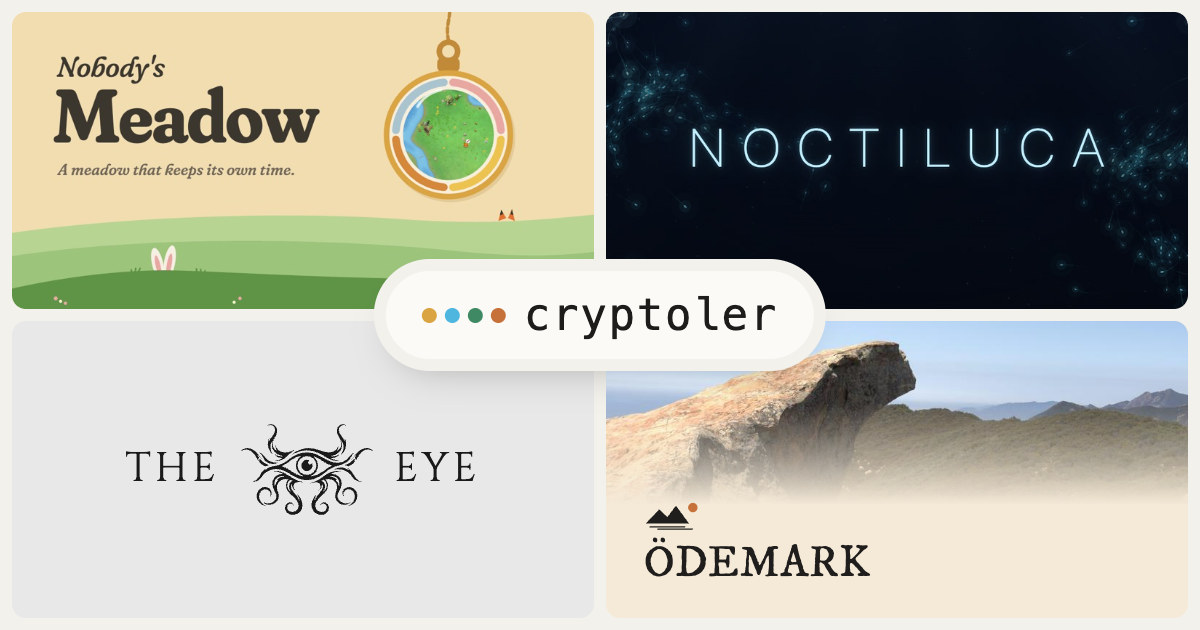
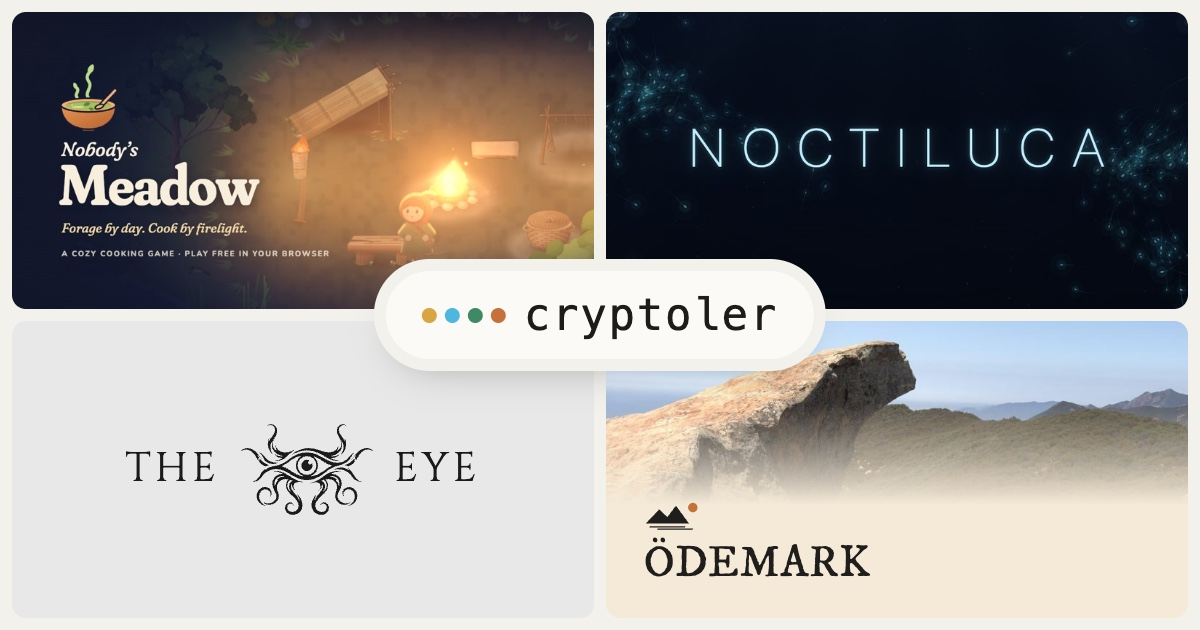
Nobody's Meadow in its new brand: the bowl of soup on the card, a cooking game in its words
The cover is the game's new share picture (the night camp with the lockup), the link preview is redrawn
with it (og.jpg?v=2), and the card says what the game is now.

Changed region(s): [[0.0, 0.0, 0.4933, 0.5127]]

diff --git a/index.html b/index.html
@@ -17,13 +17,13 @@
 <meta property="og:title" content="cryptoler">
 <meta property="og:description" content="Nobody's Meadow, Noctiluca, The Eye and Ödemark: four things made by cryptoler.">
 <meta property="og:url" content="https://www.cryptoler.net/">
-<meta property="og:image" content="https://www.cryptoler.net/og.jpg?v=1">
+<meta property="og:image" content="https://www.cryptoler.net/og.jpg?v=2">
 <meta property="og:image:type" content="image/jpeg">
 <meta property="og:image:width" content="1200">
 <meta property="og:image:height" content="630">
 <meta property="og:image:alt" content="Four cards: Nobody's Meadow, Noctiluca, The Eye and Ödemark, with cryptoler in the middle">
 <meta name="twitter:card" content="summary_large_image">
-<meta name="twitter:image" content="https://www.cryptoler.net/og.jpg?v=1">
+<meta name="twitter:image" content="https://www.cryptoler.net/og.jpg?v=2">
 <link rel="preconnect" href="https://fonts.googleapis.com">
 <link rel="preconnect" href="https://fonts.gstatic.com" crossorigin>
 <!-- Only the two faces the covers need: The Eye's Cinzel and Ödemark's IM Fell. The rest is the system's. -->
@@ -189,8 +189,8 @@
   <a class="app meadow" href="https://meadow.cryptoler.net">
     <div class="cover"><img src="assets/meadow.jpg" alt="" width="800" height="420"></div>
     <div class="about">
-      <div class="top"><h2>Nobody's Meadow</h2><span class="tag">Game</span></div>
-      <p>A browser survival game I'm creating with the help of Claude.</p>
+      <div class="top"><h2>Nobody's Meadow</h2><span class="tag">Cooking game</span></div>
+      <p>A cozy cooking game in the browser, made with the help of Claude. Forage by day, cook by firelight.</p>
       <span class="url">meadow.cryptoler.net</span>
     </div>
   </a>
